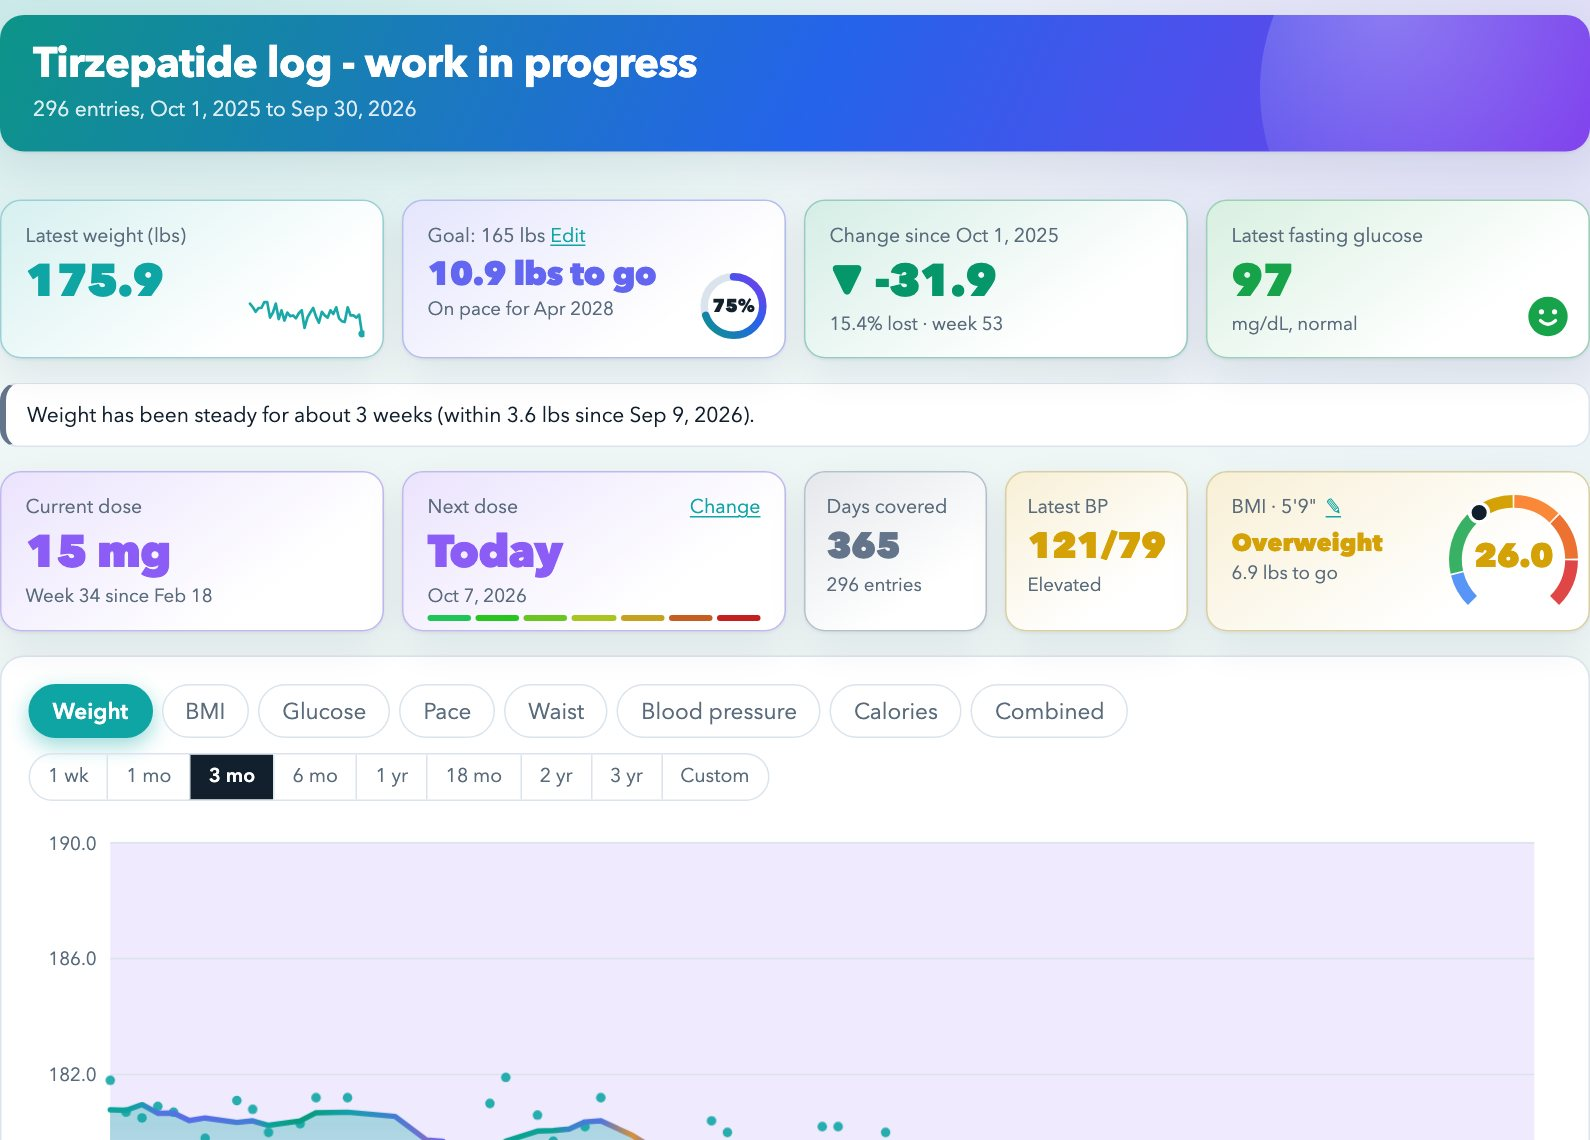
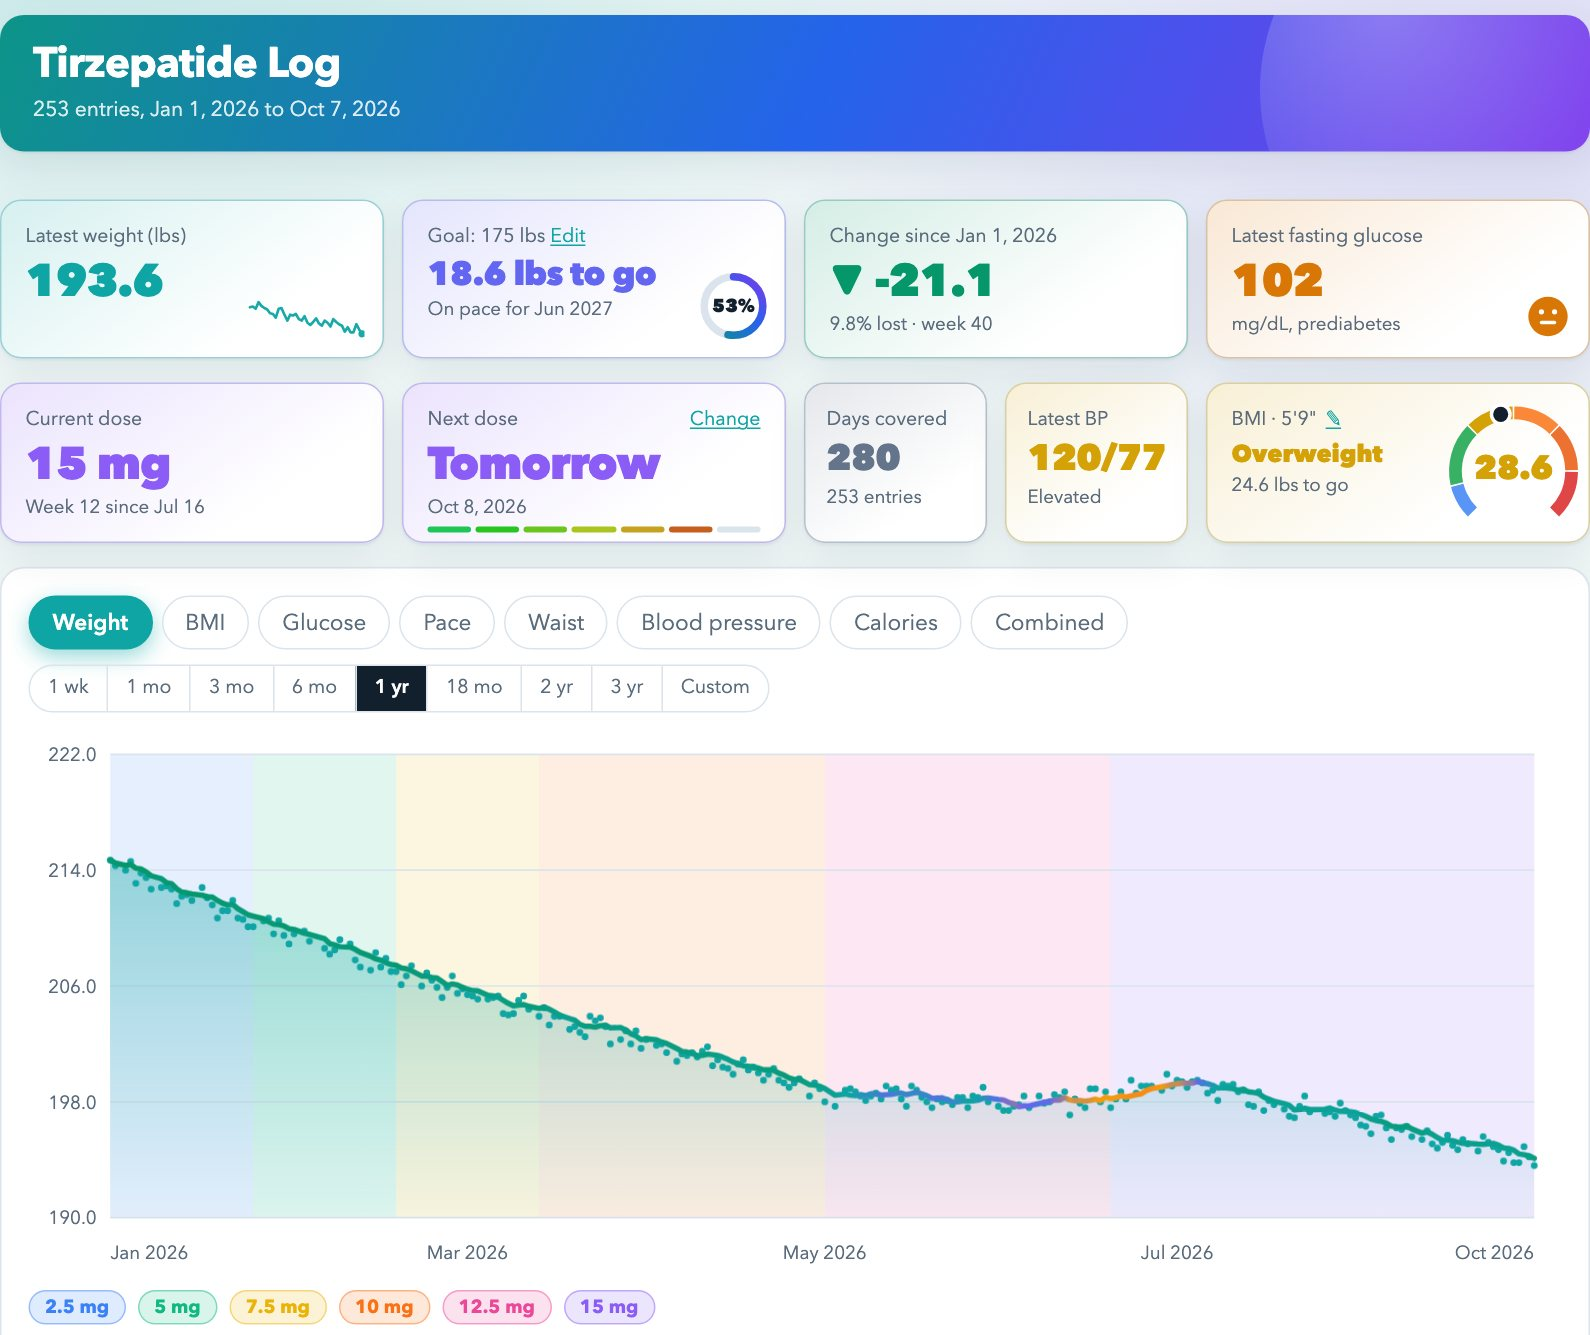
Landing hero picture: from the demo data with an unbroken one-year chart, whole chart visible

diff --git a/tests/make-landing-shots.js b/tests/make-landing-shots.js
@@ -15,7 +15,17 @@ const path = require('path');
   await page.waitForSelector('#stats .stat');
   await page.evaluate(() => { document.querySelector('.hero h1').textContent = 'Tirzepatide Log'; document.getElementById('msg').textContent = ''; document.getElementById('backupNote').hidden = true; });
   await page.waitForTimeout(800);
-  await page.screenshot({ path: path.join(root, 'landing', 'dashboard.jpg'), type: 'jpeg', quality: 84, clip: { x: 20, y: 10, width: 1060, height: 760 } });
+  // the dashboard picture comes from the demo data (steady entries, no gaps) so the chart line is unbroken, and shows the whole chart
+  const dash = await browser.newPage({ viewport: { width: 1100, height: 1300 }, deviceScaleFactor: 1.5, colorScheme: 'light' });
+  await dash.route('http://localhost:8080/**', (r) => r.fulfill({ status: 200, contentType: 'text/html', body: require('fs').readFileSync(path.join(root, 'index.html'), 'utf8') }));
+  await dash.goto('http://localhost:8080/demo');
+  await dash.evaluate(() => { document.querySelector('header.hero h1').textContent = 'Tirzepatide Log'; const m = document.getElementById('msg'); if (m) m.textContent = ''; const d = document.getElementById('demoBar'); if (d) d.hidden = true; const n = document.getElementById('backupNote'); if (n) n.hidden = true; });
+  await dash.locator('#range button[data-days="365"]').click();
+  await dash.waitForTimeout(1200);
+  await dash.evaluate(() => { document.querySelector('header.hero h1').textContent = 'Tirzepatide Log'; });
+  const cb = await dash.locator('#chart').boundingBox();
+  await dash.screenshot({ path: path.join(root, 'landing', 'dashboard.jpg'), type: 'jpeg', quality: 84, clip: { x: 20, y: 10, width: 1060, height: Math.round(cb.y + cb.height + 40 - 10) } });
+  await dash.close();
   await page.locator('#insightsPanel > summary').click();
   await page.waitForTimeout(600);
   await page.setViewportSize({ width: 1100, height: 2600 });
